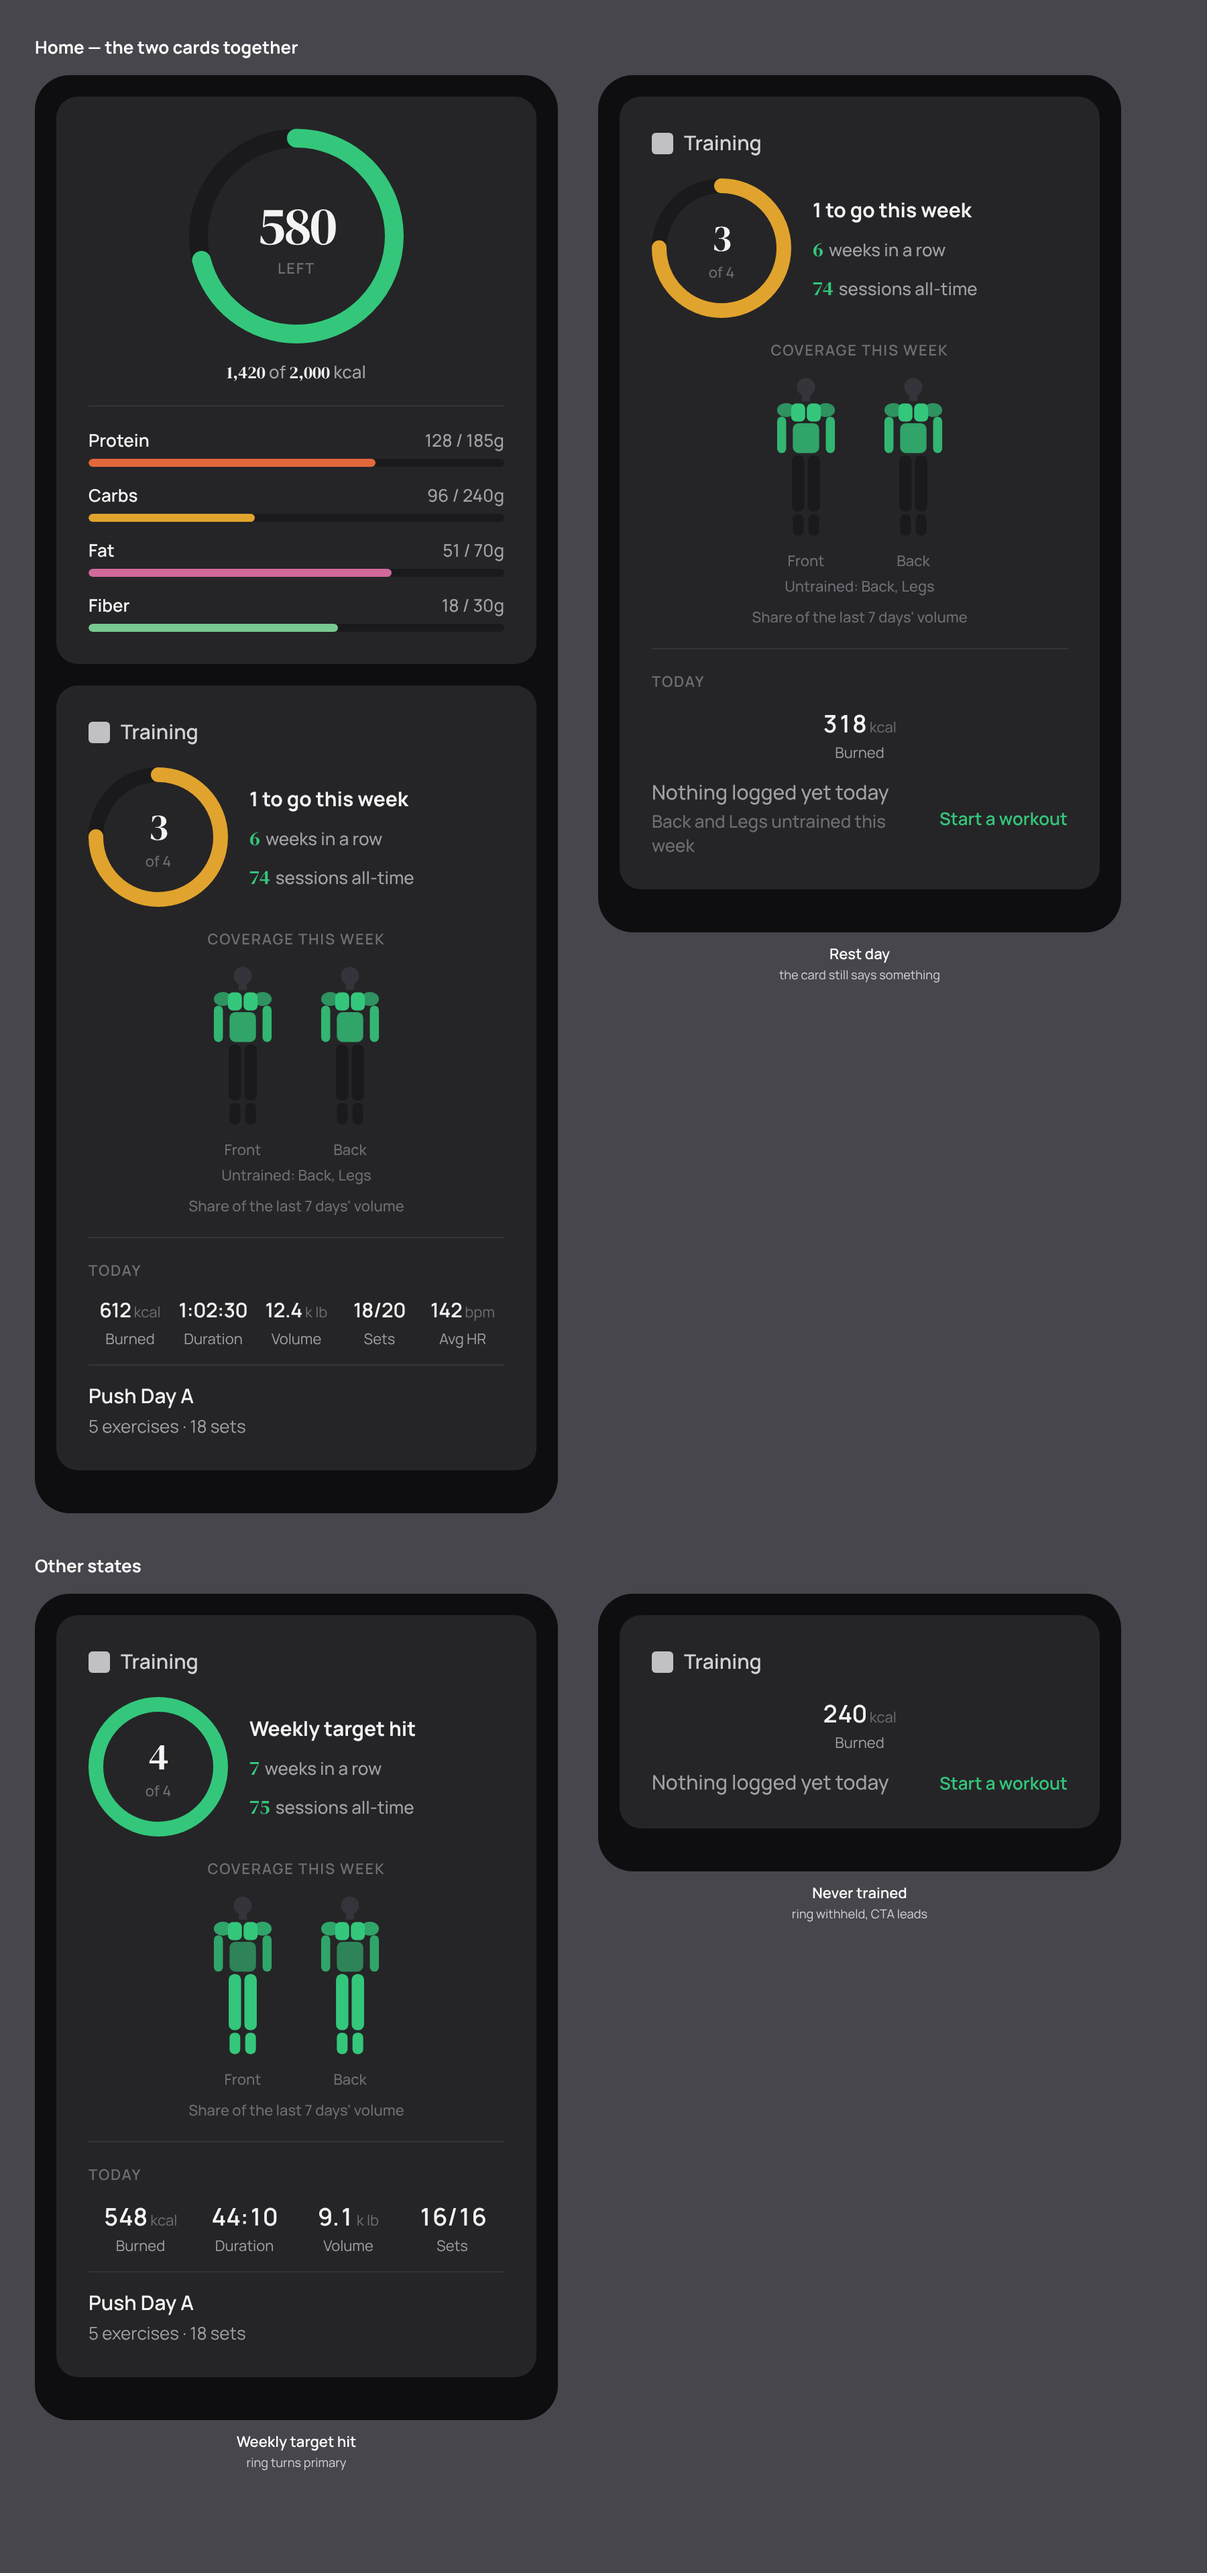
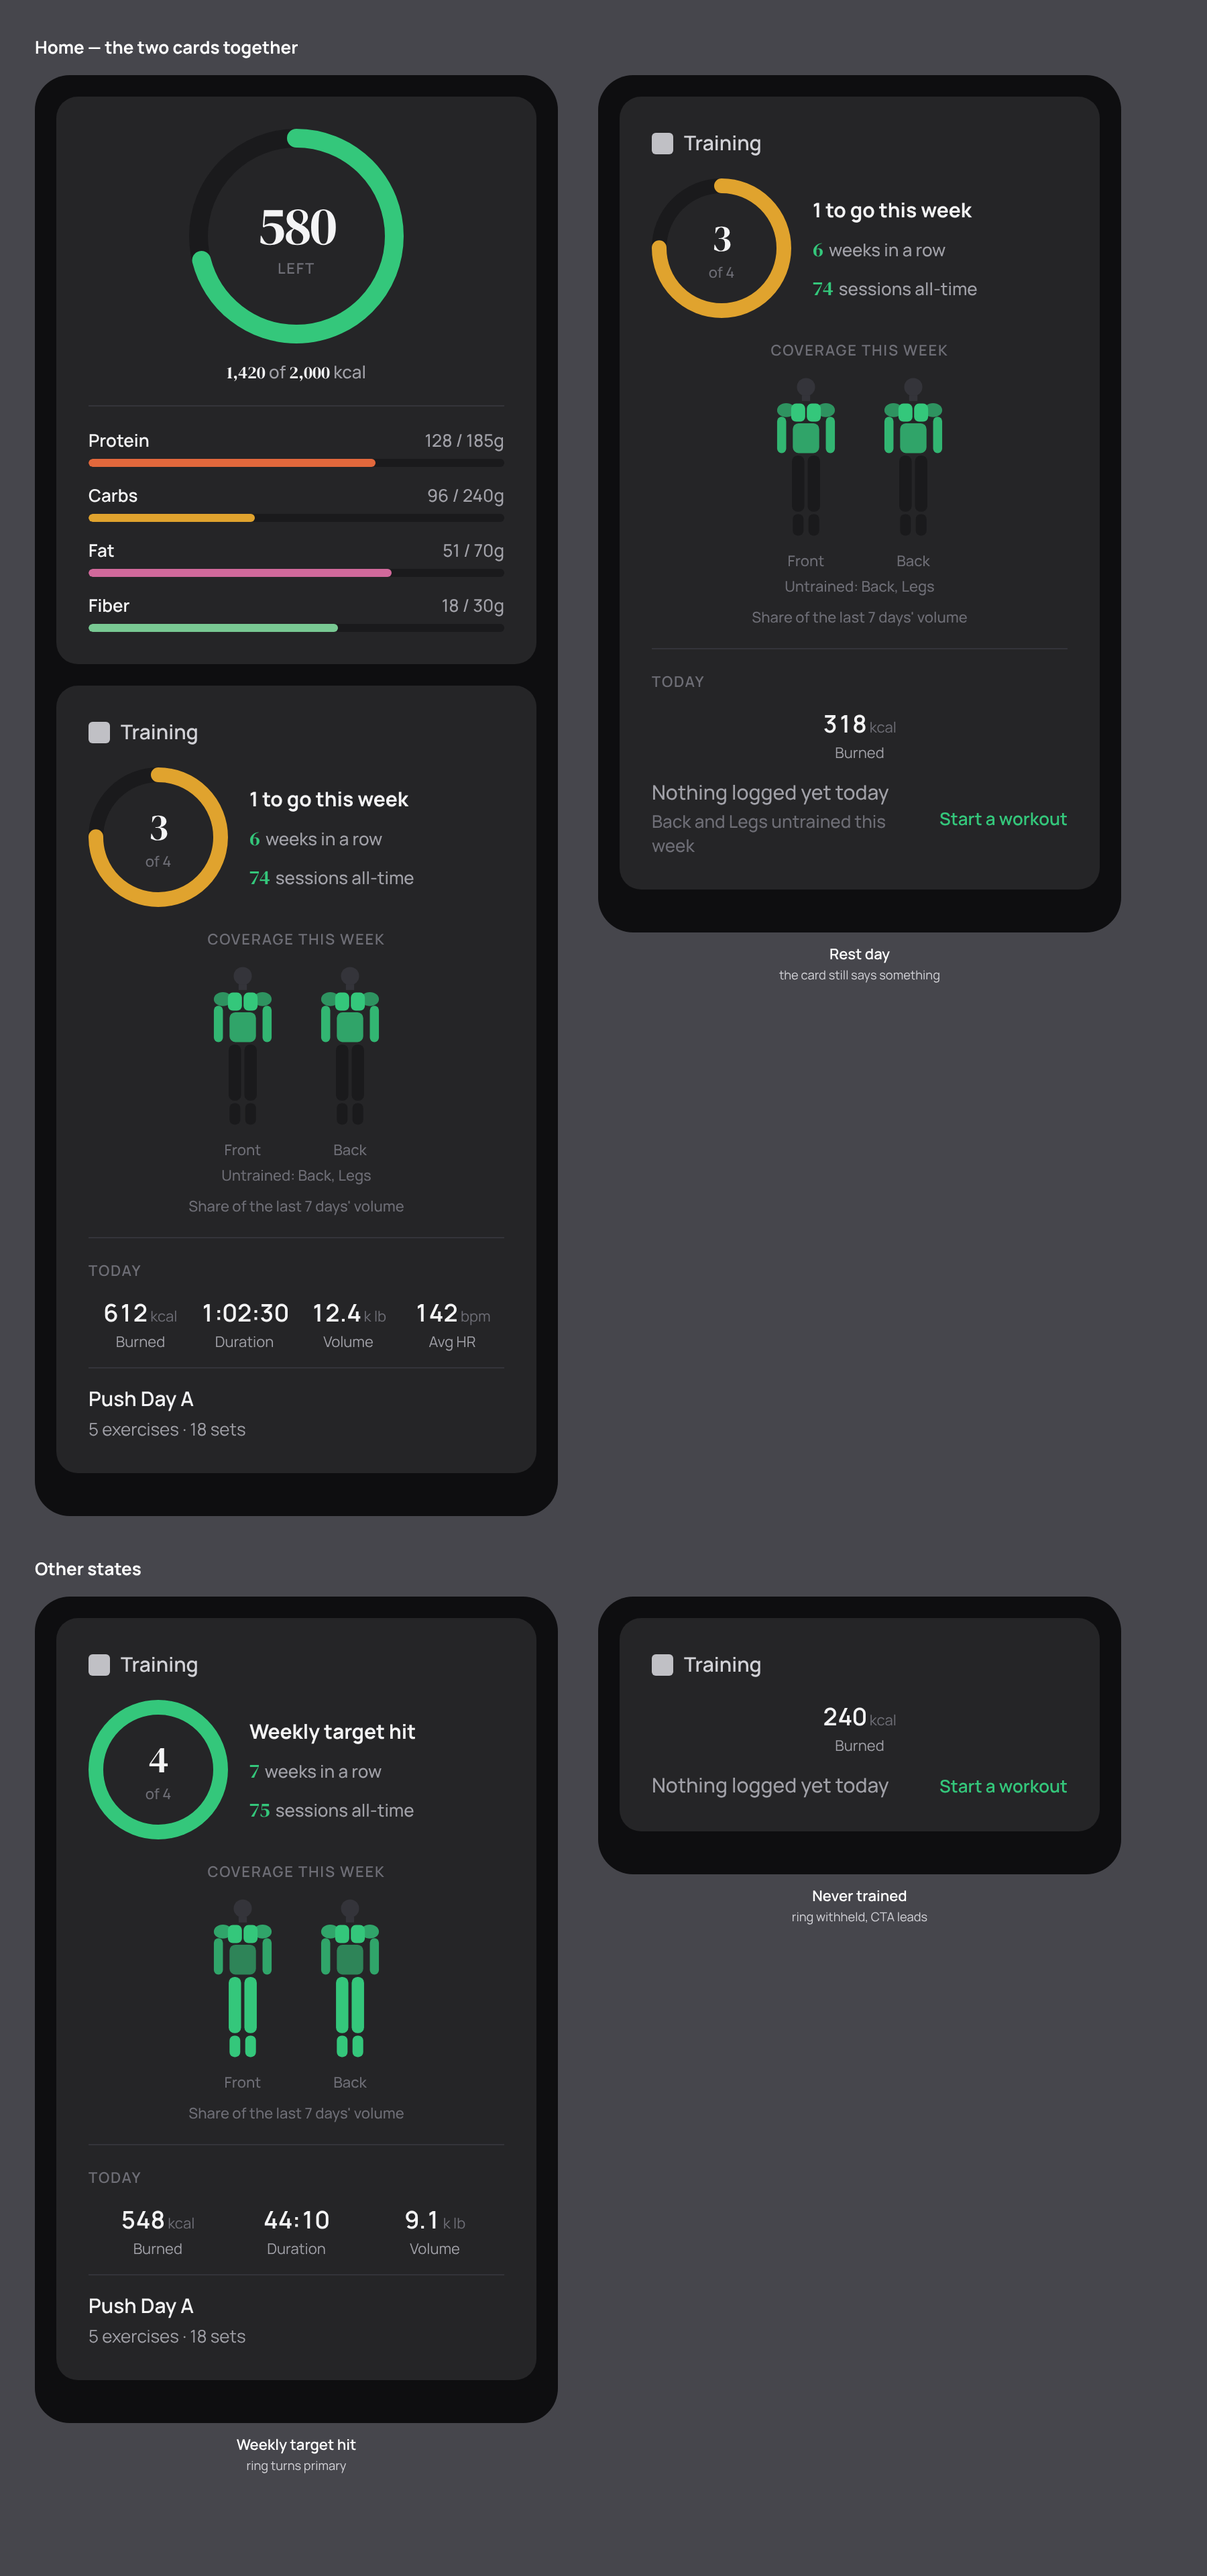
Drop Sets from the day's stats, and the compact path it forced
The row is Burned, Duration, Volume, Avg HR. Sets came out — the set count
is still on the session row underneath it ("5 exercises · 18 sets"), so the
number is not lost, only the column.

That also retires statValueCompact. It existed for exactly one case: five
stats sharing 310pt, where an hour-plus workout's "1:02:30" collided with
the Volume figure beside it. Four is the ceiling now, so the condition can
never be true again and the values go back to 18pt everywhere. Keeping a
branch that cannot run would have left the next person to touch this row
wondering what it was protecting against.

Claude-Session: https://claude.ai/code/session_01G1DZr8XqKT6mEYjTtyiqnR

diff --git a/MacroTracker/src/screens/HomeScreen.tsx b/MacroTracker/src/screens/HomeScreen.tsx
@@ -115,12 +115,6 @@ export function HomeScreen({ navigation }: Props) {
   }, [weekSplit]);
 
   const [activeEnergy, setActiveEnergy] = useState<number | null>(null);
-  // Burned, Duration, Volume, Sets and Avg HR can all be present at once, and
-  // five across a phone is one more than the row's type size can carry.
-  const statCount =
-    (activeEnergy != null ? 1 : 0) +
-    (dayWorkoutStats ? 3 + (dayWorkoutStats.hr ? 1 : 0) : 0);
-  const statsAreCrowded = statCount > 4;
   const [hkAvailable] = useState(() => activeEnergyAvailable());
   useEffect(() => {
     if (!hkAvailable) return;
@@ -275,7 +269,6 @@ export function HomeScreen({ navigation }: Props) {
                   label="Burned"
                   value={Math.round(activeEnergy).toLocaleString()}
                   unit="kcal"
-                  compact={statsAreCrowded}
                   c={c}
                 />
               )}
@@ -284,7 +277,6 @@ export function HomeScreen({ navigation }: Props) {
                   <WorkoutStat
                     label="Duration"
                     value={formatDuration(dayWorkoutStats.totalDurationMs)}
-                    compact={statsAreCrowded}
                     c={c}
                   />
                   <WorkoutStat
@@ -295,13 +287,6 @@ export function HomeScreen({ navigation }: Props) {
                         : String(Math.round(dayWorkoutStats.totalVolume))
                     }
                     unit="lb"
-                    compact={statsAreCrowded}
-                    c={c}
-                  />
-                  <WorkoutStat
-                    label="Sets"
-                    value={`${dayWorkoutStats.doneSets}/${dayWorkoutStats.totalSets}`}
-                    compact={statsAreCrowded}
                     c={c}
                   />
                   {dayWorkoutStats.hr && (
@@ -309,7 +294,6 @@ export function HomeScreen({ navigation }: Props) {
                       label="Avg HR"
                       value={String(dayWorkoutStats.hr.avg)}
                       unit="bpm"
-                      compact={statsAreCrowded}
                       c={c}
                     />
                   )}
@@ -465,14 +449,11 @@ function WorkoutStat({
   label,
   value,
   unit,
-  compact,
   c,
 }: {
   label: string;
   value: string;
   unit?: string;
-  /** Set when five stats share the row; see statValueCompact. */
-  compact?: boolean;
   c: Theme;
 }) {
   const s = useMemo(() => makeStatStyles(c), [c]);
@@ -480,7 +461,7 @@ function WorkoutStat({
     <View style={s.stat}>
       <View style={s.statValueRow}>
         <Text
-          style={[s.statValue, compact && s.statValueCompact]}
+          style={s.statValue}
           numberOfLines={1}
           adjustsFontSizeToFit
           minimumFontScale={0.75}
@@ -501,12 +482,6 @@ const makeStatStyles = (c: Theme) =>
     stat: { flex: 1, alignItems: 'center' },
     statValueRow: { flexDirection: 'row', alignItems: 'baseline', gap: 2 },
     statValue: { ...type.subhead(c), ...tabular, color: c.text },
-    // Five stats share 310pt on a 390pt phone — about 62pt each — and an
-    // hour-plus workout's "1:02:30" measures ~56pt at 18pt, which left so
-    // little between columns that it ran into the Volume figure beside it.
-    // A gap does not fix that: the ink is what is too wide. So the row drops
-    // a step on the type scale when it is that full, and only then.
-    statValueCompact: { ...type.body(c), ...tabular, color: c.text },
     statUnit: { ...type.micro(c), color: c.textFaint },
     statLabel: { ...type.micro(c), color: c.textMuted, marginTop: space.xxs },
   });
